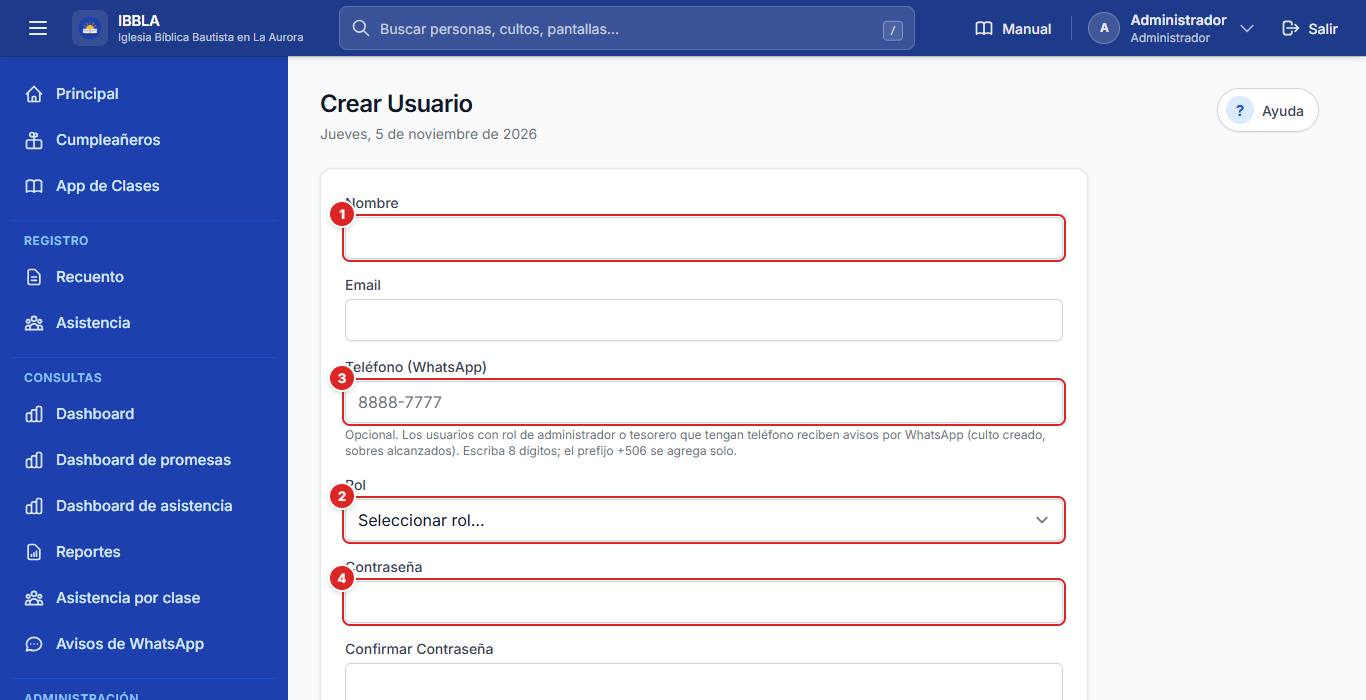
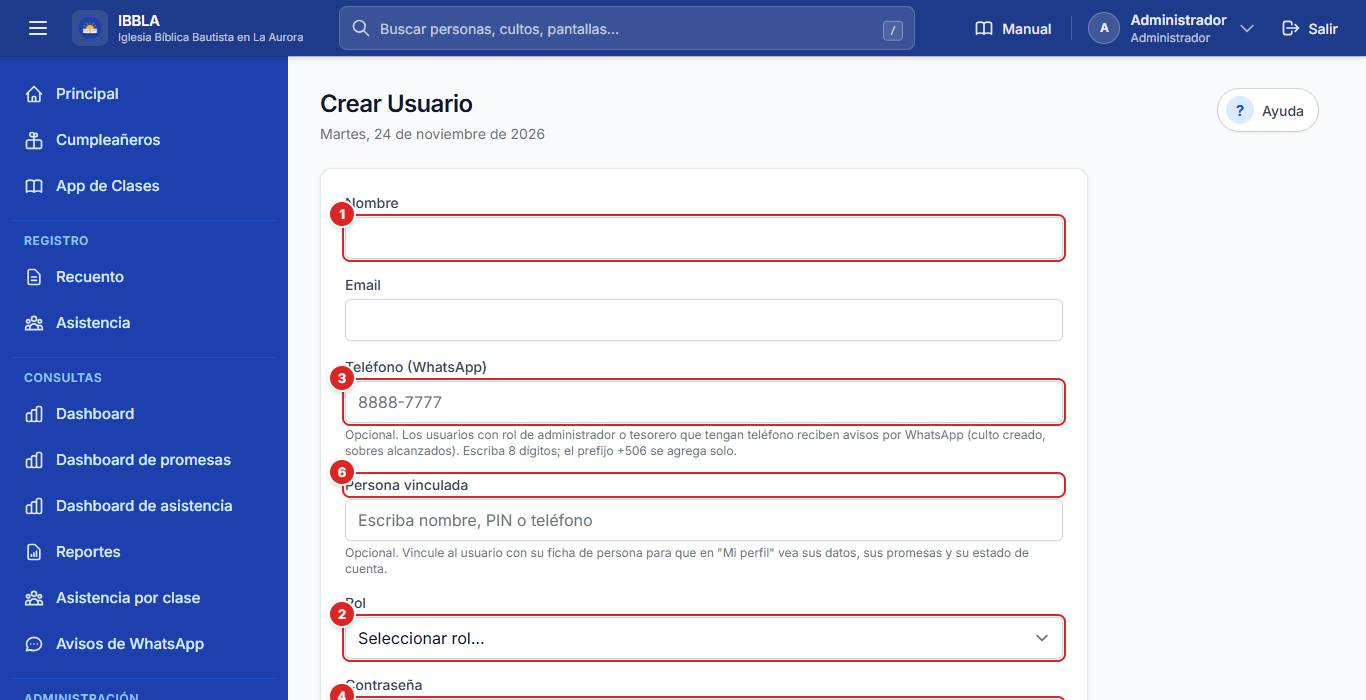
QA-G13: manual con la barra Sin persona, asistencia cerrada, borrados masivos con CONFIRMAR y persona vinculada

Changed region(s): [[0.2152, 0.66, 0.7994, 1.0], [0.2152, 0.18, 0.3997, 0.21]]

diff --git a/resources/views/manual/paginas/04-personas.md b/resources/views/manual/paginas/04-personas.md
@@ -4,7 +4,7 @@ orden: 40
 icono: personas
 resumen: Buscar, agregar y editar a los hermanos; ver su ficha, sus compromisos y su estado de cuenta en PDF.
 roles: admin
-rutas: personas.*, compromisos.*
+rutas: personas.*, compromisos.*, personas.mantenimiento#mantenimiento-borrados-masivos
 palabras: personas, miembros, hermanos, pin, teléfono, correo, fecha de nacimiento, ficha, compromisos, estado de cuenta, activo, inactivo, eliminar persona, clases, ministerios, acceso, contraseña
 ---
 
@@ -46,7 +46,18 @@ Solo piden el **Nombre completo**; el **Teléfono** y el **Correo** son opcional
 | **9. Editar** | Abre el formulario de edición. | Administrador | Al guardar vuelves a la lista. |
 | **10. Eliminar (basurero)** | Elimina a la persona. | Administrador | Pide confirmación. Se borran sus promesas, sus compromisos y su usuario (si tenía); **sus sobres se conservan** como sobres sin nombre. |
 
-Al final de la lista hay un bloque plegado, **Mantenimiento**, con acciones que afectan a todas las personas a la vez (**Eliminar personas inactivas** y **Borrar todas las promesas**). Piden confirmación y no se pueden deshacer: úsalas solo si sabes exactamente por qué.
+### Mantenimiento: borrados masivos
+
+Al final de la lista hay un bloque plegado, **Mantenimiento**, con dos acciones que afectan a todas las personas a la vez. Ninguna borra al tocarla: cada una abre **su propia pantalla de confirmación**.
+
+![Pantalla de confirmación de Eliminar personas inactivas](img:personas-mantenimiento.jpg "Escribe CONFIRMAR (1) para habilitar el borrado")
+
+| Botón o control | Qué hace | Quién puede usarlo | Qué pasa después |
+|---|---|---|---|
+| **Eliminar personas inactivas** | Abre la pantalla que dice cuántas personas inactivas se borran (puedes ver sus nombres con **Ver las N personas**), con sus promesas, compromisos y usuarios, y **lo que NO se borra** (los sobres quedan, sin persona). | Administrador | Para continuar escribes **CONFIRMAR** y tocas **Eliminar personas inactivas**; con **Cancelar** o **Volver a Personas** no se borra nada. |
+| **Borrar todas las promesas** | Abre la pantalla que dice cuántas promesas y compromisos mensuales se borran de cuántas personas. Las personas y los sobres se conservan. | Administrador | Igual: escribes **CONFIRMAR** y confirmas. |
+
+Sin la palabra **CONFIRMAR** no se borra nada. Todo se hace de una vez (si algo falla no queda a medias) y en la **Auditoría** queda quién lo hizo, cuándo y el detalle de lo que se borró. Si no hay nada que borrar, la pantalla lo dice y te devuelve a Personas. **No se puede deshacer**: úsalas solo si sabes exactamente por qué.
 
 ## La ficha de la persona
 
@@ -61,10 +72,10 @@ El formulario tiene tres secciones y el botón **Guardar** siempre a la vista.
 ![Formulario de una persona](img:personas-formulario.jpg "Datos personales (1), clases y ministerios (2), promesas (3) y Guardar (4)")
 
 1. **Datos personales.** El **Nombre completo** es obligatorio. El **PIN** es un identificador único para encontrar a la persona rápido en el recuento (puede quedar vacío). Marca **Activo** si la persona sigue asistiendo: las personas inactivas no aparecen en *Cumpleañeros* ni en el *Reporte General*.
-2. **Acceso como miembro.** Si escribes un **Correo**, aparece la casilla **Contraseña** (mínimo 8 caracteres): con ese correo la persona podrá entrar al sistema como **Miembro** y ver su progreso en *Mi perfil*.
+2. **Acceso como miembro.** Si escribes un **Correo**, aparece la casilla **Contraseña** (mínimo 8 caracteres): con ese correo la persona podrá entrar al sistema como **Miembro** y ver su progreso en *Mi perfil*. El usuario queda ya ligado a esta persona y con el rol Miembro, igual que si lo crearas en *Usuarios y roles*.
 3. **Clases y ministerios.** Con **Agregar clase** asignas hasta cuatro clases; marca **Maestro(a)** si da clase. Si no se asigna clase, la persona pertenece a **Capilla**. Con **Agregar ministerio** la asignas a uno o varios ministerios (marca **Líder** si lo dirige).
 4. **Promesas de ofrenda.** Una fila por categoría: monto, moneda y frecuencia. Ver *Promesas*.
-5. Toca **Guardar**.
+5. Toca **Guardar**. Al guardar solo cambia lo que tocaste: las promesas que no modificaste siguen con su historial.
 
 | Botón o control | Qué hace | Quién puede usarlo | Qué pasa después |
 |---|---|---|---|

diff --git a/resources/views/manual/paginas/06-asistencia.md b/resources/views/manual/paginas/06-asistencia.md
@@ -32,7 +32,7 @@ Menú lateral → **Registro** → **Asistencia**. La lista muestra los cultos c
 |---|---|---|---|
 | **1. + Nueva Asistencia** | Abre el formulario para registrar la asistencia de un culto. | Administrador, Asistente | Al guardar vuelves a la lista con un mensaje. |
 | **2. Mes, Año y Filtrar** | Limita la lista a un mes y año. **Limpiar** quita el filtro. | Administrador, Asistente | La lista muestra solo esos cultos. |
-| **3. Editar / Cerrar / Eliminar** | Corrige, cierra o elimina la asistencia de un culto. | Administrador, Asistente | **Cerrar** pide confirmación y deja la asistencia en **Asistencias Cerradas (Archivo)**. |
+| **3. Editar / Cerrar / Eliminar** | Corrige, cierra o elimina la asistencia de un culto. | Administrador, Asistente | **Cerrar** pide confirmación («Después de cerrarla queda en solo lectura: solo el administrador podrá corregirla») y deja la asistencia en **Asistencias Cerradas (Archivo)**. |
 | **+ Registrar** | Aparece en un culto sin asistencia y abre el formulario con ese culto elegido. | Administrador, Asistente | Llenas y guardas. |
 
 ### Paso a paso: registrar la asistencia de un culto
@@ -52,7 +52,7 @@ Menú lateral → **Registro** → **Asistencia**. La lista muestra los cultos c
 | **3. Total Asistencia** | Suma de capilla, clases y maestros. | Administrador, Asistente | No necesita editarse. |
 | **4. Guardar** | Guarda la asistencia. | Administrador, Asistente | Vuelves a la lista con el mensaje de confirmación. |
 
-> **Importante:** una asistencia **cerrada** ya no se puede editar, ni siquiera el Administrador: al guardar, el sistema responde que no se puede editar una asistencia cerrada y se pierde lo escrito. Cierra solo cuando el conteo esté completo.
+> **Importante:** una asistencia **cerrada** queda en **solo lectura**. Quien no puede corregirla (el Asistente, el Tesorero) la ve con las cifras en gris y el aviso «Cerrada el … por … · solo lectura»; el formulario no deja guardar. El **Administrador** sí puede corregirla: la abre con el aviso «corrigiendo como administrador», cambia lo necesario y guarda; el antes y el después queda en la auditoría como «Corrección de culto cerrado» (**Administración** → **Accesos** → **Últimos cambios**). **Cerrar la asistencia no cierra el culto** del Recuento: son dos cierres independientes. Cierra solo cuando el conteo esté completo.
 
 ## Gestionar Clases
 
@@ -69,7 +69,7 @@ Para que una persona sea alumna o maestra de una clase, asígnala desde su formu
 
 ## App de Clases
 
-Menú lateral → **App de Clases**. La maestra elige su clase y entra a su registro digital: **Inicio**, **Miembros**, **Visitas**, **Asistencia** (toca el círculo de cada persona para marcar que asistió), **Visitación** (las semanas en que visitó a cada miembro) y **Reportes**. Reemplaza el cuaderno de registro.
+Menú lateral → **App de Clases**. La maestra elige su clase y entra a su registro digital: **Inicio**, **Miembros**, **Visitas**, **Asistencia** (toca el círculo de cada persona para marcar que asistió), **Visitación** (las semanas en que visitó a cada miembro) y **Reportes**. Reemplaza el cuaderno de registro. Solo entran el Administrador y las maestras asignadas a una clase: el Tesorero (o un Asistente sin clase) ve la pantalla de acceso denegado con el motivo, y un Miembro que no es maestra ve «No tenés una clase asignada. Pedile al administrador que te asigne una.»
 
 ## Marcar Asistencia (servidores)
 
@@ -87,7 +87,7 @@ Menú lateral → **Administración** → **Cargar Histórico** (solo Administra
 
 ## Preguntas frecuentes
 
-**No puedo editar una asistencia.** Probablemente está cerrada. Pídele al administrador que la corrija.
+**No puedo editar una asistencia.** Probablemente está cerrada: la ves en solo lectura. Pídele al administrador que la corrija; él puede hacerlo y queda registrado.
 
 **El culto no aparece al registrar la asistencia.** Solo aparecen cultos sin asistencia registrada. Si el culto no existe, el administrador debe crearlo en *Cultos*.
 

diff --git a/resources/views/manual/paginas/02-recuento.md b/resources/views/manual/paginas/02-recuento.md
@@ -60,7 +60,9 @@ Más abajo, en este orden:
 ## Paso a paso: registrar un sobre
 
 1. Abre el culto (toca su línea en la lista) y toca **+ Agregar sobre**.
-2. **1 · Persona:** escribe el nombre o el PIN y elige a la persona de la lista. Su nombre aparece **en grande abajo, junto al botón Guardar**, para que confirmes que es la correcta. Si el sobre no trae nombre, marca **Sobre anónimo (sin persona)**: la barra de abajo dice **ANÓNIMO** en rojo. El sistema nunca guarda un sobre anónimo por descuido: sin persona y sin la casilla marcada no deja guardar.
+2. **1 · Persona:** escribe el nombre o el PIN y elige a la persona de la lista. Su nombre aparece **en grande abajo, junto al botón Guardar**, para que confirmes que es la correcta. Mientras no elijas a nadie, la barra de abajo dice **Sin persona** en gris. Si el sobre no trae nombre, marca **Sobre anónimo (sin persona)**: solo entonces la barra dice **ANÓNIMO** en rojo. El sistema nunca guarda un sobre anónimo por descuido: sin persona y sin la casilla marcada no deja guardar.
+
+   El buscador muestra, junto a cada nombre, su **PIN** y su **teléfono**, para distinguir a dos personas con el mismo nombre. Con las flechas del teclado recorres las personas; las flechas no llegan solas a **Crear «nombre» como persona nueva** (para esa opción tócala, o usa **+ Nueva persona**).
 3. Si la persona no está en la lista, toca **+ Nueva persona** (o elige **Crear «nombre» como persona nueva** en el buscador): escribe el **Nombre completo**, el **Teléfono** si lo tienes (opcional) y toca **Agregar y elegir**. Queda activa y sin usuario; el administrador completa el resto de sus datos después.
 4. **2 · Montos:** escribe el monto de cada categoría (diezmo, misiones, construcción…). Lo que no traiga el sobre se deja vacío. El **Total** de la barra de abajo se va sumando.
 5. Elige el **Método de pago**: **Efectivo** o **Transferencia** (con transferencia aparece **N° de comprobante**). Si el sobre viene en dólares, cambia la **Moneda** a **$ Dólares**: el sistema usa el tipo de cambio del día. Con **+ Agregar nota** puedes escribir una nota del sobre.
@@ -68,12 +70,12 @@ Más abajo, en este orden:
 
 Arriba del formulario, **Último guardado** muestra el sobre anterior (número, persona y monto) con **Editar ese sobre**, por si te equivocaste en el que acabas de guardar.
 
-![Formulario de un sobre nuevo](img:recuento-nuevo-sobre.jpg "Persona (1), sobre anónimo (2), montos por categoría (3) y la barra con el total y Guardar y siguiente (4)")
+![Formulario de un sobre nuevo](img:recuento-nuevo-sobre.jpg "Persona (1), sobre anónimo (2), montos por categoría (3) y la barra con «Sin persona», el total y Guardar y siguiente (4)")
 
 | Botón o control | Qué hace | Quién puede usarlo | Qué pasa después |
 |---|---|---|---|
 | **1. Persona** | Busca por nombre o PIN. **+ Nueva persona** la crea sin salir de la pantalla. | Administrador, Tesorero | El sobre queda ligado a la persona y cuenta para su estado de cuenta. |
-| **2. Sobre anónimo (sin persona)** | Marca que el sobre no trae nombre. | Administrador, Tesorero | El sobre queda como anónimo (rojo); después se le puede asignar persona. |
+| **2. Sobre anónimo (sin persona)** | Marca que el sobre no trae nombre. | Administrador, Tesorero | La barra pasa de **Sin persona** a **ANÓNIMO** (rojo) y el sobre queda anónimo; después se le puede asignar persona. |
 | **3. Montos** | Un monto por categoría. | Administrador, Tesorero | El total del sobre se calcula solo. |
 | **4. Guardar y terminar / Guardar y siguiente** | Guarda el sobre. | Administrador, Tesorero | **Terminar** vuelve al culto con el mensaje de confirmación; **siguiente** abre otro formulario en el mismo culto. |
 

diff --git a/resources/views/manual/paginas/10-usuarios.md b/resources/views/manual/paginas/10-usuarios.md
@@ -36,15 +36,16 @@ Menú lateral → **Administración** → **Gestionar Usuarios**.
 1. Toca **+ Nuevo Usuario**.
 2. Escribe el **Nombre** y el **Email** (no puede repetirse con otro usuario).
 3. Elige el **Rol**.
-4. Opcional: escribe el **Teléfono (WhatsApp)** de 8 dígitos; el prefijo +506 se agrega solo. Los administradores y tesoreros que tengan teléfono reciben los **avisos de WhatsApp** (culto creado, sobres alcanzados).
-5. Escribe la **Contraseña** (mínimo 8 caracteres) y repítela en **Confirmar Contraseña**.
-6. Toca **Guardar**.
+4. **Persona vinculada** (para el rol Miembro, Servidor y quien deba ver **Mi perfil**): busca a la persona escribiendo su nombre, PIN o teléfono y elígela. Solo salen personas de tu iglesia que **todavía no tienen otro usuario**. **Quitar vínculo** la suelta. Cambiar o quitar el vínculo queda en la auditoría.
+5. Opcional: escribe el **Teléfono (WhatsApp)** de 8 dígitos; el prefijo +506 se agrega solo. Los administradores y tesoreros que tengan teléfono reciben los **avisos de WhatsApp** (culto creado, sobres alcanzados).
+6. Escribe la **Contraseña** (mínimo 8 caracteres) y repítela en **Confirmar Contraseña**.
+7. Toca **Guardar**.
 
-![Formulario de un usuario](img:usuarios-formulario.jpg "Nombre y correo (1), rol (2), teléfono (3), contraseña (4) y Guardar (5)")
+![Formulario de un usuario](img:usuarios-formulario.jpg "Nombre y correo (1), rol (2), teléfono (3), contraseña (4), Guardar (5) y persona vinculada (6)")
 
 Al **editar** un usuario, la contraseña es opcional: déjala vacía para conservar la actual.
 
-> **Consejo:** para que un hermano vea sus propias promesas, **no lo crees aquí**: agrega un **correo y una contraseña** en su ficha de *Personas* y queda con acceso como **Miembro**, ya ligado a su persona. Un Miembro creado desde esta pantalla puede entrar, pero su **Mi perfil** saldrá vacío porque no está ligado a ninguna persona.
+> **Consejo:** para que un hermano vea sus propias promesas, lo más simple es agregar un **correo y una contraseña** en su ficha de *Personas*: queda con acceso como **Miembro**, ya ligado a su persona. Si lo creas aquí, elige su **Persona vinculada**; sin ese vínculo su **Mi perfil** saldría vacío («No se encontró información de persona asociada»).
 
 > **Importante:** al sistema solo entran las personas que el administrador agregó, con su correo y contraseña. No hay acceso libre ni de invitados.
 
